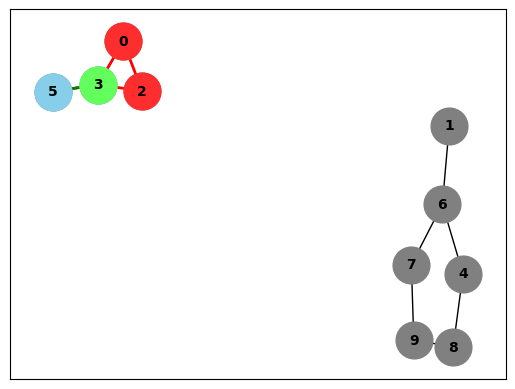
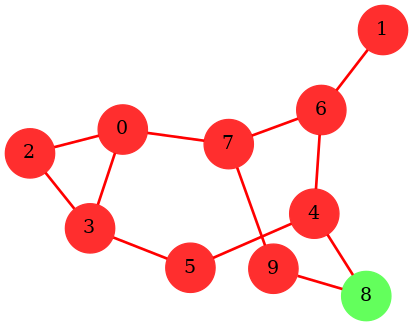
Melhorias foram feitas

Changed region(s): [[0.0, 0.0, 0.9879, 1.0], [0.3487, 0.7362, 0.5521, 0.9202]]

diff --git a/buscaLarg.py b/buscaLarg.py
@@ -22,6 +22,7 @@ from lerGrafo import *
 from collections import deque
 import networkx as nx
 import matplotlib.pyplot as plt
+import pygraphviz as pgv
 
 #! Talvez seja interessante deixa escolher qualquer vértice pois se o grafo for desconexo ele gera duas arvores
 #! Esse mesmo fator pode ser usado para mostrar as componentes desconexas por meio de arvores e 
@@ -83,28 +84,27 @@ def vert_inicial(grafo):
     window.close()
     return int(selected_vertex)
 
-def gerar_imagem_do_grafo(matriz_adjacencia, caminho_imagem, no_atual = None,no_visitados = None,arestas_visitadas=None, aresta_pintada=None):
-    G = nx.Graph()
-
-    # Converta a matriz de adjacência em uma lista de arestas
+def gerar_imagem_do_grafo(matriz_adjacencia, caminho_imagem, no_atual=None, no_visitados=None, arestas_visitadas=None, aresta_pintada=None):
+    G_pgv = pgv.AGraph(strict=True, directed=False, rankdir='BT')
+    G_pgv.node_attr.update({'style': 'filled', 'shape': 'circle', 'width': '0.005', 'height': '0.005'})
     arestas = []
+
     for i in range(len(matriz_adjacencia)):
-        for j in range(len(matriz_adjacencia[i])):
+        G_pgv.add_node(i)
+
+    for i in range(len(matriz_adjacencia)):
+        for j in range(i + 1, len(matriz_adjacencia[i])):
             if matriz_adjacencia[i][j] == 1:
-                # Ajuste para iniciar a contagem dos vértices do 1
-                arestas.append((i, j))
+                G_pgv.add_edge(i, j)
+                arestas.append((i,j))
 
-    G.add_edges_from(arestas)
-    fig, ax = plt.subplots()
-
-    pos = nx.spring_layout(G, seed=42)  # Posicionamento dos nós
 
     # Função para desenhar arestas com base na cor e na lista de arestas
-    def draw_edges(edges, color, width):
-        nx.draw_networkx_edges(G, pos, ax=ax, edgelist=edges, width=width, edge_color=color)
-
-    # Desenha todas as arestas do grafo em preto
-    draw_edges(G.edges(), 'k', 1.0)
+    def draw_edges(edges, color, width, G = G_pgv):
+        for edge in edges:
+            pgv_edge = G.get_edge(*edge)
+            pgv_edge.attr['color'] = color
+            pgv_edge.attr['penwidth'] = width
 
     # Se houverem arestas visitadas, desenha-as em vermelho
     if arestas_visitadas:
@@ -114,29 +114,29 @@ def gerar_imagem_do_grafo(matriz_adjacencia, caminho_imagem, no_atual = None,no_
     if aresta_pintada:
         draw_edges([aresta_pintada], 'green', 2.0)
 
-    def draw_nodes(nodes, color):
-        nx.draw_networkx_nodes(G, pos, ax=ax, nodelist=nodes, node_size=700, node_color=color)
+    def draw_nodes(nodes, color, G = G_pgv):
+        for node in nodes:
+            pgv_node = G.get_node(node)
+            pgv_node.attr['color'] = color
 
-    # Desenha os nós, rótulos e salva a imagem
-    draw_nodes(G.nodes(), 'gray')
+    try:
+        if no_visitados is not None and vertices_enfileirados is not None:
+            resultado = list(set(no_visitados) - set(vertices_enfileirados))
+        else:
+            resultado = None
 
-    if no_visitados and vertices_enfileirados:
-        resultado = list(set(no_visitados)-set(vertices_enfileirados))
-    else: 
-        resultado = None 
+        if resultado:
+            draw_nodes(resultado, '#FF2E2E')
 
-    if resultado:
-        draw_nodes(resultado, '#FF2E2E')
-    
-    if vertices_enfileirados:
-        draw_nodes(vertices_enfileirados, 'skyblue')
-    if no_atual is not None:
-        draw_nodes([no_atual], '#63FF5C')
+        if vertices_enfileirados is not None:
+            draw_nodes(vertices_enfileirados, 'skyblue')
 
-    nx.draw_networkx_labels(G, pos, ax=ax, font_size=10, font_color="black", font_weight="bold")
-
-    plt.savefig(caminho_imagem, format="png", bbox_inches="tight")
-    plt.close()
+        if no_atual is not None:
+            draw_nodes([no_atual], '#63FF5C')
+    except:
+        print("Primeira geração")
+    G_pgv.layout(prog='neato')
+    G_pgv.draw('grafo/grafo.png')
     return arestas
 
 def colocar_arv (arvore, pai, filho, cor = "black"):
@@ -156,7 +156,7 @@ def colocar_arv (arvore, pai, filho, cor = "black"):
 
     # Configuração de tamanho para nós e arestas
     G.graph_attr.update(rankdir='TB')
-    G.node_attr.update({'style': 'filled', 'shape': 'circle', 'width': '0.1', 'height': '0.1','color':'skyblue'})  # Ajuste de tamanho dos nós
+    G.node_attr.update({'style': 'filled', 'shape': 'circle', 'width': '0.01', 'height': '0.01','color':'skyblue'})  # Ajuste de tamanho dos nós
     G.edge_attr.update({'penwidth': '3.0'})  # Ajuste de largura das arestas
 
     # Layout e geração da imagem com Graphviz
@@ -200,6 +200,7 @@ def buscar_em_largura(window,caminho_imagem,matriz_adjacencia, vertice_inicial=N
     vertices[primeiro_vertice ].marcado = True
     vertices_enfileirados.append(vertices[primeiro_vertice ].numero)
     vertices_visitados.append(vertices[primeiro_vertice ].numero)
+    colocar_arv(arvore,None,primeiro_vertice)
 
     #Enquanto existir a fila
     while fila:
@@ -238,6 +239,7 @@ def buscar_em_largura(window,caminho_imagem,matriz_adjacencia, vertice_inicial=N
                     aresta_escolhida = (vertice_atual.numero, vizinho)
                     arestas_visitadas.append(aresta_escolhida)
 
+                    colocar_arv(arvore, vertice_atual.numero,vertices[vizinho].numero,"orange")
                     #! Aresta Especial
                     # verificar nível dos nós e verificar se v e w possuem o mesmo pai, pois cada situação gerará um tipo de aresta
                     """
@@ -267,13 +269,14 @@ def buscar_em_largura(window,caminho_imagem,matriz_adjacencia, vertice_inicial=N
                 #Tanto que tlvz possa até tirar o else e todo bloco de código dele
                 else:
                     gerar_imagem_do_grafo(matriz_adjacencia, caminho_imagem, vertice_atual.numero, vertices_visitados,
-                                        arestas_visitadas, aresta_escolhida)  # Gera imagem
+                                        arestas_visitadas)  # Gera imagem
                     window['-IMAGE-'].update(f'{caminho_imagem}')
                     window["-IMAGE2-"].update(filename="grafo/arvore.png")
                     window.refresh()
                     time.sleep(1)
         #Remove da fila
         vertices_enfileirados.pop(0)
+        window["-TEXT-"].update(f'Fila: {vertices_enfileirados}')
 
 #Como se repete enquanto houver uma fila irá visitar todos os vértices sequencialmente
 
@@ -281,7 +284,7 @@ def buscar_em_largura(window,caminho_imagem,matriz_adjacencia, vertice_inicial=N
         
 
     gerar_imagem_do_grafo(matriz_adjacencia, caminho_imagem, vertice_atual.numero, vertices_visitados,
-                                      arestas_visitadas, aresta_escolhida)  # Gera imagem
+                                      arestas_visitadas)  # Gera imagem
     window["-TEXT-"].update(f'Vertices: {vertices_enfileirados}')
     window['-IMAGE-'].update(f'{caminho_imagem}')
     window["-IMAGE2-"].update(filename="grafo/arvore.png")
@@ -290,22 +293,8 @@ def buscar_em_largura(window,caminho_imagem,matriz_adjacencia, vertice_inicial=N
 
 def interface_buscaLarg(grafo):
     global vertices_enfileirados
-# Exemplo: gerar uma imagem do grafo
+
     matriz_adjacencia = grafo
-    """
-    matriz_adjacencia = [
-        [0, 0, 1, 1, 0, 1, 0, 1, 0, 0],
-        [0, 0, 0, 0, 0, 0, 1, 0, 0, 0],
-        [1, 0, 0, 1, 0, 0, 0, 0, 0, 0],
-        [1, 0, 1, 0, 0, 1, 0, 1, 0, 0],
-        [0, 0, 0, 0, 0, 1, 1, 0, 1, 0],
-        [1, 0, 0, 1, 1, 0, 0, 1, 0, 0],
-        [0, 1, 0, 0, 1, 0, 0, 1, 0, 0],
-        [1, 0, 0, 1, 0, 1, 1, 0, 0, 1],
-        [0, 0, 0, 0, 1, 0, 0, 0, 0, 1],
-        [0, 0, 0, 0, 0, 0, 0, 1, 1, 0]
-    ]
-"""
 
     caminho_imagem = caminho_imagem = "grafo/grafo.png"
     sg.theme('Reddit')
@@ -317,17 +306,16 @@ def interface_buscaLarg(grafo):
     for vertice, grau in lista.items():
         print(f'O vértice {vertice} possui grau {grau}')
     """
-    vertice_inicial = vert_inicial(matriz_adjacencia)
+    
     arvore = nx.Graph()
-    print(arvore)
-    colocar_arv(arvore,None,vertice_inicial)
 
     vertices_enfileirados = list()
-    layout = [[sg.Column([[sg.Image(filename=caminho_imagem,key="-IMAGE-")]]),
+    layout = [[sg.Text(f'Fila: {vertices_enfileirados}', key="-TEXT-",font=("Ubuntu", 20))],
+            [sg.Column([[sg.Image(filename=caminho_imagem,key="-IMAGE-")]]),
             sg.Column([[sg.Image(filename="grafo/arvore.png",key="-IMAGE2-")]])],
             [sg.Push(), sg.Button('Busca'), sg.Push(),sg.Button('Sair')],
-            [sg.Button('Mudar vertice inicial')],
-            [sg.Text(f'Fila: {vertices_enfileirados}', key="-TEXT-")]
+            [sg.Button('Mudar vertice inicial')]
+            
             ]
 
     window = sg.Window('Busca em Largura', layout, resizable=True, finalize=True)
@@ -336,6 +324,7 @@ def interface_buscaLarg(grafo):
         event, values = window.read()
 
         if event == sg.WIN_CLOSED or event == 'Sair':
+            print('Saindo')
             break
 
         if event == 'Read':
@@ -343,11 +332,11 @@ def interface_buscaLarg(grafo):
             window.Refresh()
 
         if event == 'Busca':
-            
+            vertice_inicial = vert_inicial(matriz_adjacencia)
             buscar_em_largura(window,caminho_imagem,matriz_adjacencia,vertice_inicial,arvore)
             #talvez retorna o vértice o qual a bipartição é nula
             window.Refresh()
-
+        """
         if event == 'Mudar vertice inicial':
             __import__('os').remove('grafo/arvore.png')
             #! Falta fazer com que o vértice inicial entre
@@ -356,8 +345,8 @@ def interface_buscaLarg(grafo):
             vertice_inicial = vert_inicial(matriz_adjacencia)
             arvore.clear()
             window.Refresh()
-
-
+        """
+    window.close()
     return
 
 #interface_buscaLarg(None)

diff --git a/lerGrafo.py b/lerGrafo.py
@@ -1,7 +1,5 @@
 import PySimpleGUI as sg
-import networkx as nx
-import matplotlib.pyplot as plt
-
+from buscaLarg import gerar_imagem_do_grafo
 
 def ler_matrizes_arquivo(caminho_arquivo):
     matrizes = []
@@ -24,45 +22,6 @@ def ler_matrizes_arquivo(caminho_arquivo):
             matrizes.append(matriz_atual)
 
     return matrizes
-
-def matriz_adjacencia_para_lista(matriz):
-    lista_adjacencia = {}
-
-    for i in range(len(matriz)):
-        vizinhos = []
-        for j in range(len(matriz[i])):
-            if matriz[i][j] == 1:
-                vizinhos.append(j)  # Adiciona o vértice 'j' como vizinho de 'i'
-        lista_adjacencia[i] = vizinhos  # Adiciona a lista de vizinhos ao vértice 'i'
-
-    return lista_adjacencia
-
-def gerar_imagem_do_grafo(lista_adjacencia, aresta_pintada=None):
-    grafo = matriz_adjacencia_para_lista(lista_adjacencia)
-
-
-    # Criar um objeto do tipo Grafo não direcionado (Graph) do NetworkX
-    grafo_networkx = nx.Graph()
-
-    # Adicionar as arestas com base na lista de adjacência
-    for vertice, vizinhos in grafo.items():
-        for vizinho in vizinhos:
-            grafo_networkx.add_edge(vertice, vizinho)
-
-    # Adicionar vértices desconexos explicitamente
-    for vertice in grafo:
-        if not grafo[vertice]:  # Verifica se o vértice não possui vizinhos
-            grafo_networkx.add_node(vertice)
-
-    # Plotar o grafo com um layout circular
-    pos = nx.spring_layout(grafo_networkx)  # Define a posição dos nós para um layout circular
-    nx.draw(grafo_networkx, pos, with_labels=True, node_size=300, node_color='skyblue', font_weight='bold')
-    plt.title('Grafo a partir de Lista de Adjacência (Layout Circular)')
-
-    # Salvar o gráfico como uma imagem
-    plt.savefig('grafo/grafo.png')  # Salva o gráfico como um arquivo PNG
-    plt.close()
-
 
 def interface_lerGrafo ():
     # Leitura das matrizes
@@ -94,17 +53,3 @@ def interface_lerGrafo ():
     #matriz_selecionada = matriz_adjacencia_para_lista(matriz_selecionada)
     gerar_imagem_do_grafo(matriz_selecionada,None)
     return matriz_selecionada
-
-"""
-Talvez já se deva criar a imagem do grafo nesse arquivo
-
-Para facilitar retornar como 
-
-grafo_exemplo = {
-    'A': ['B', 'C'],
-    'B': ['A', 'C'],
-    'C': ['A', 'B', 'D'],
-    'D': ['C']
-}
-
-"""

diff --git a/main.py b/main.py
@@ -8,10 +8,13 @@ from buscaLarg import interface_buscaLarg
 # ! Exibir e mostrar opções doq fazer com o grafo
 
 #! Resolver problema do carregamento inicial de imagens e quando não existem imagens
+#! Necessário rever o uso de vertices infileirados pois o mesmo precisa existir
+
 def main():
     # Caminho predefinido da imagem
     caminho_imagem = "grafo/grafo.png"
     grafo_selecionado = interface_lerGrafo()
+    sg.theme('Reddit')
 
     # Layout da interface
     layout = [
